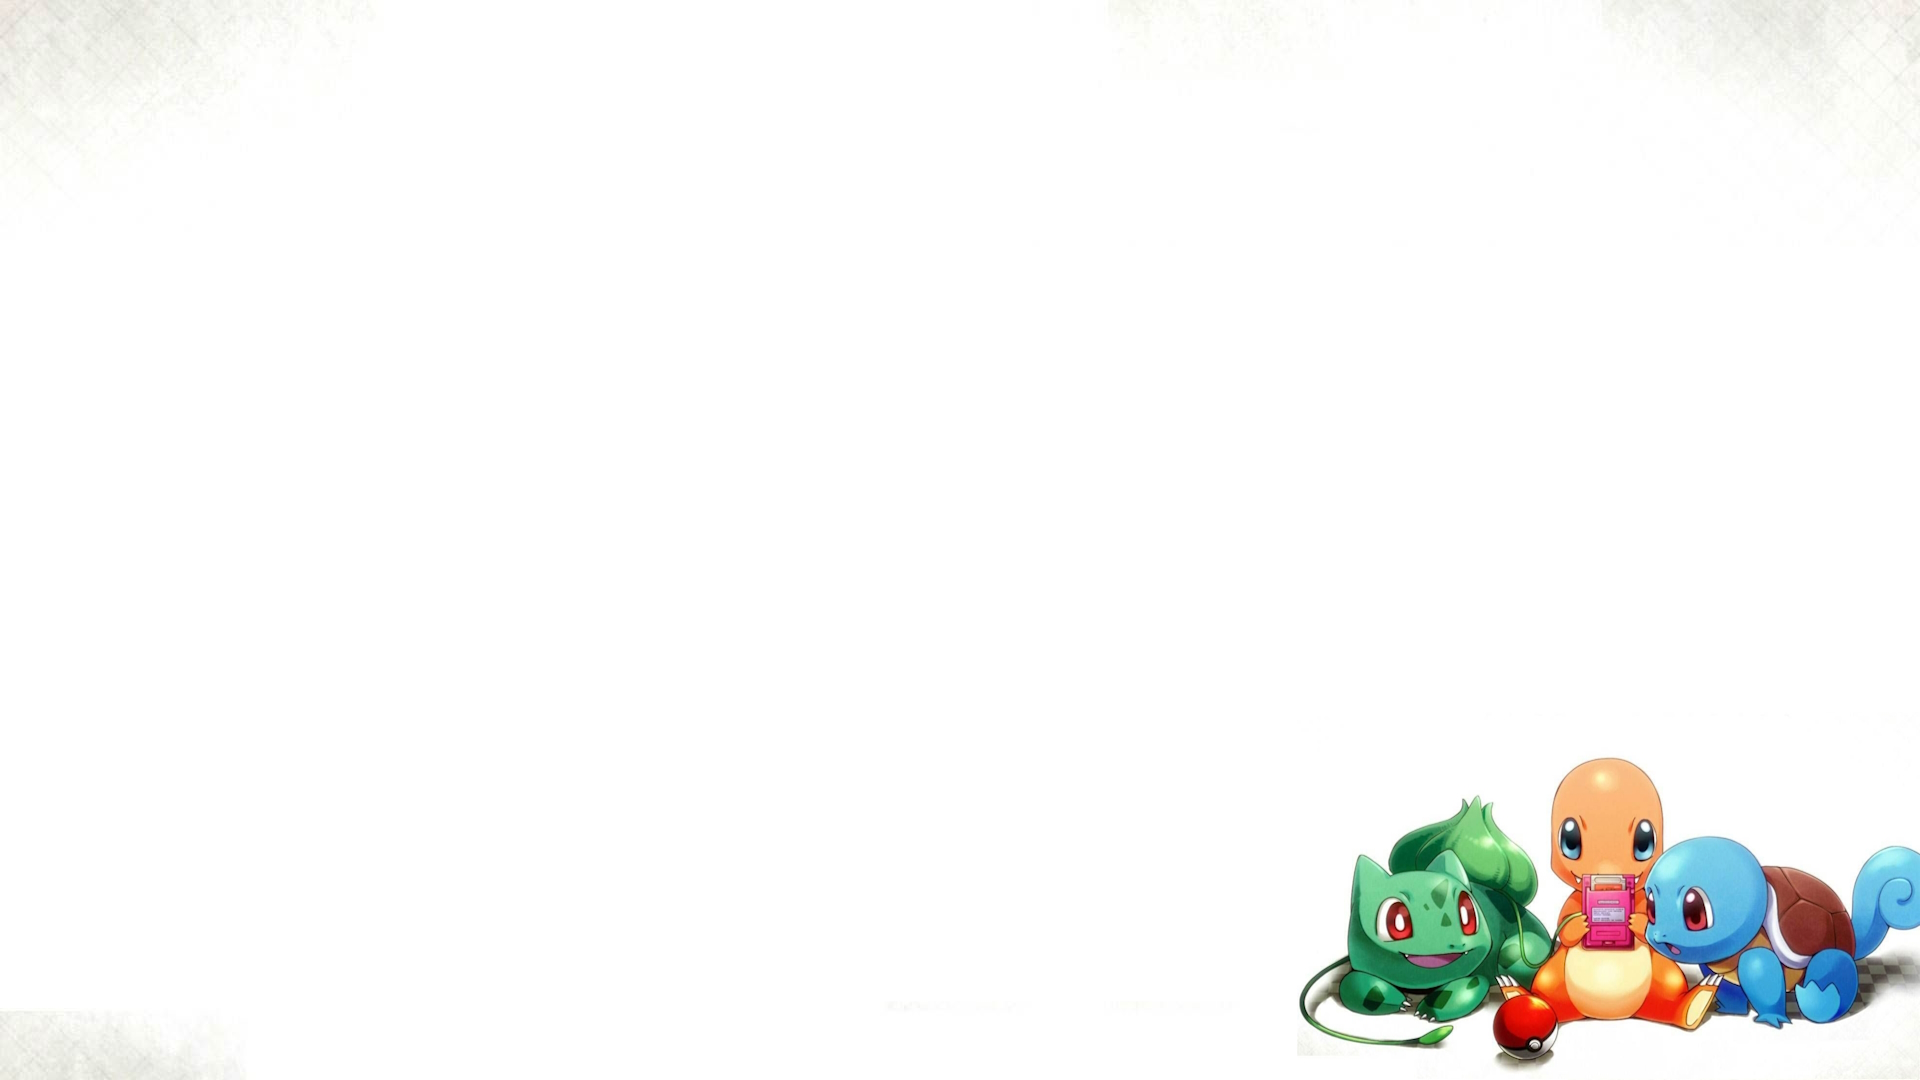
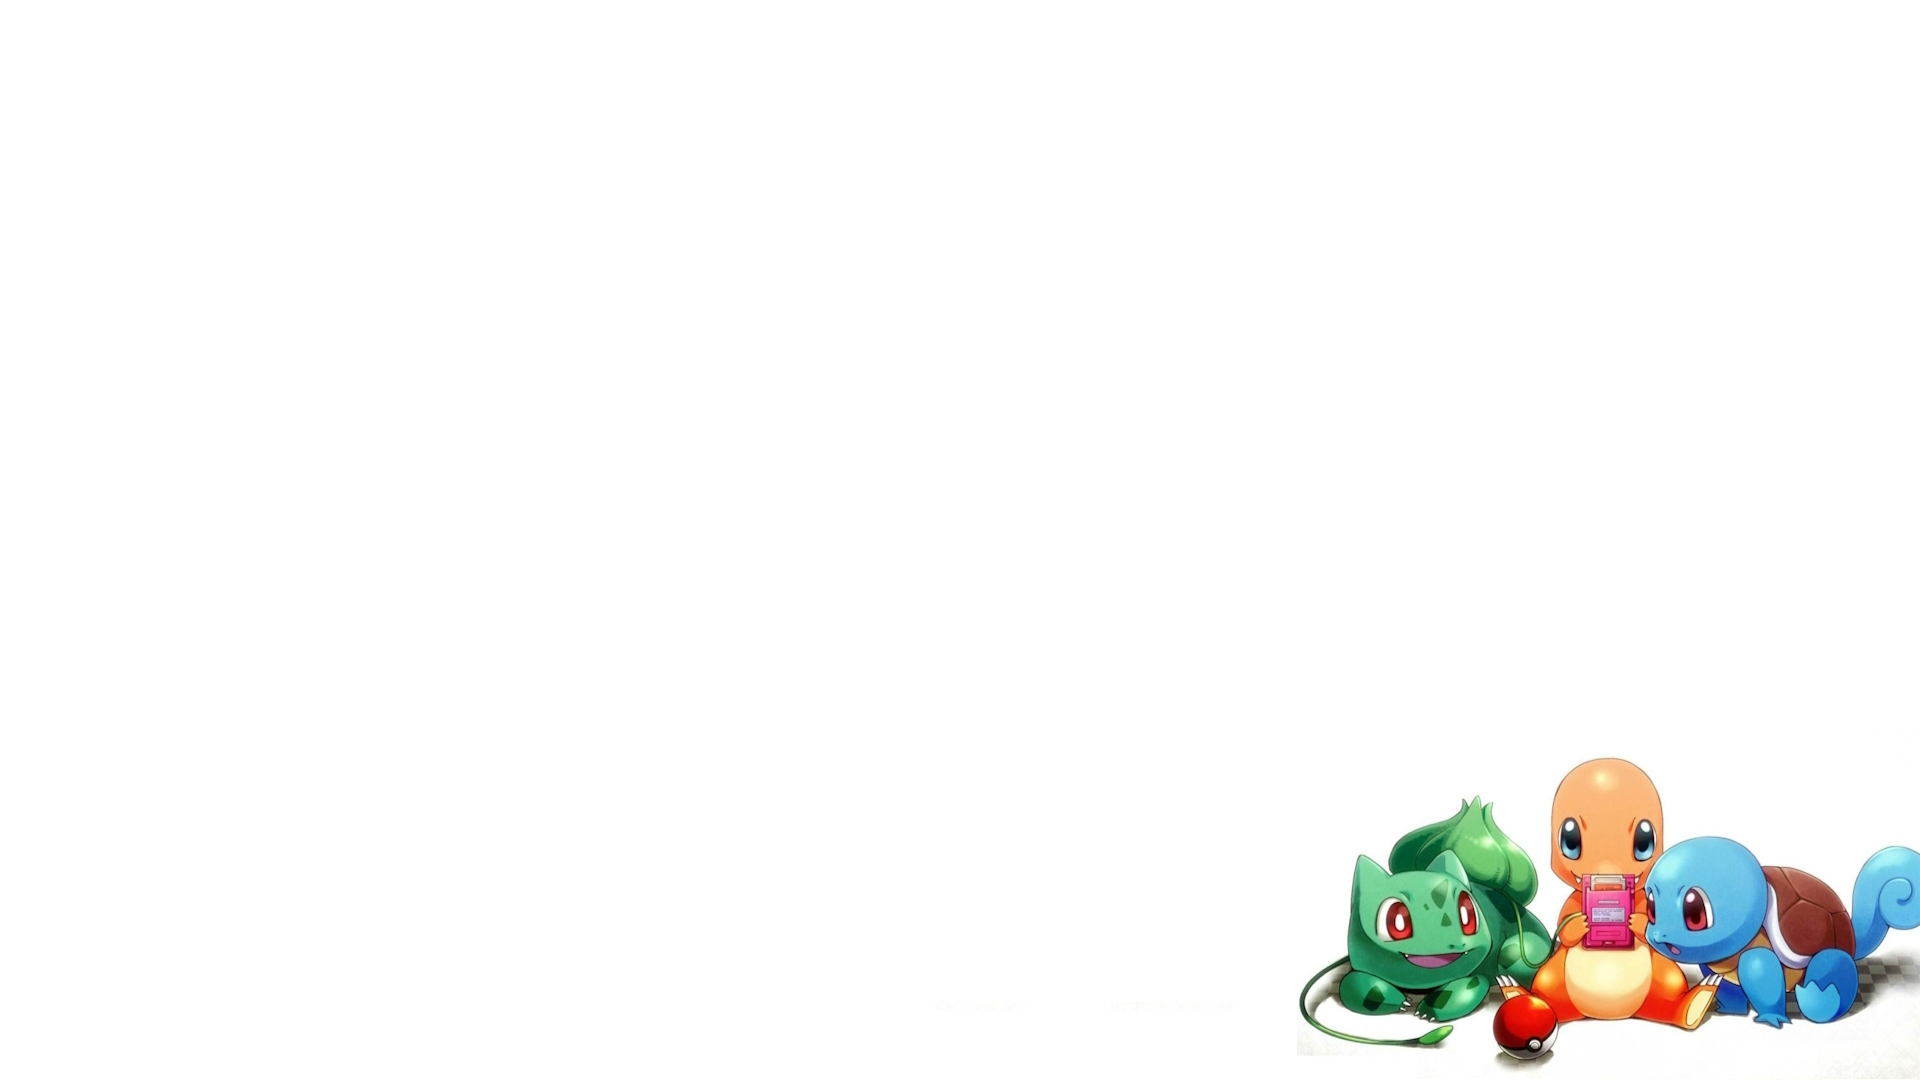
v1.0 ready

Changed region(s): [[0.875, 0.0, 1.0, 0.0611], [0.0, 0.0, 0.0938, 0.0917], [0.0, 0.9472, 0.0938, 1.0]]

diff --git a/src/style.module.css b/src/style.module.css
@@ -2,5 +2,6 @@
   display: flex;
   flex-direction: column;
   min-height: 100vh;
-  background: url("./assets/img/background.jpg") no-repeat bottom / contain;
+  background: url("./assets/img/background.jpg") no-repeat bottom right /
+    contain;
 }
